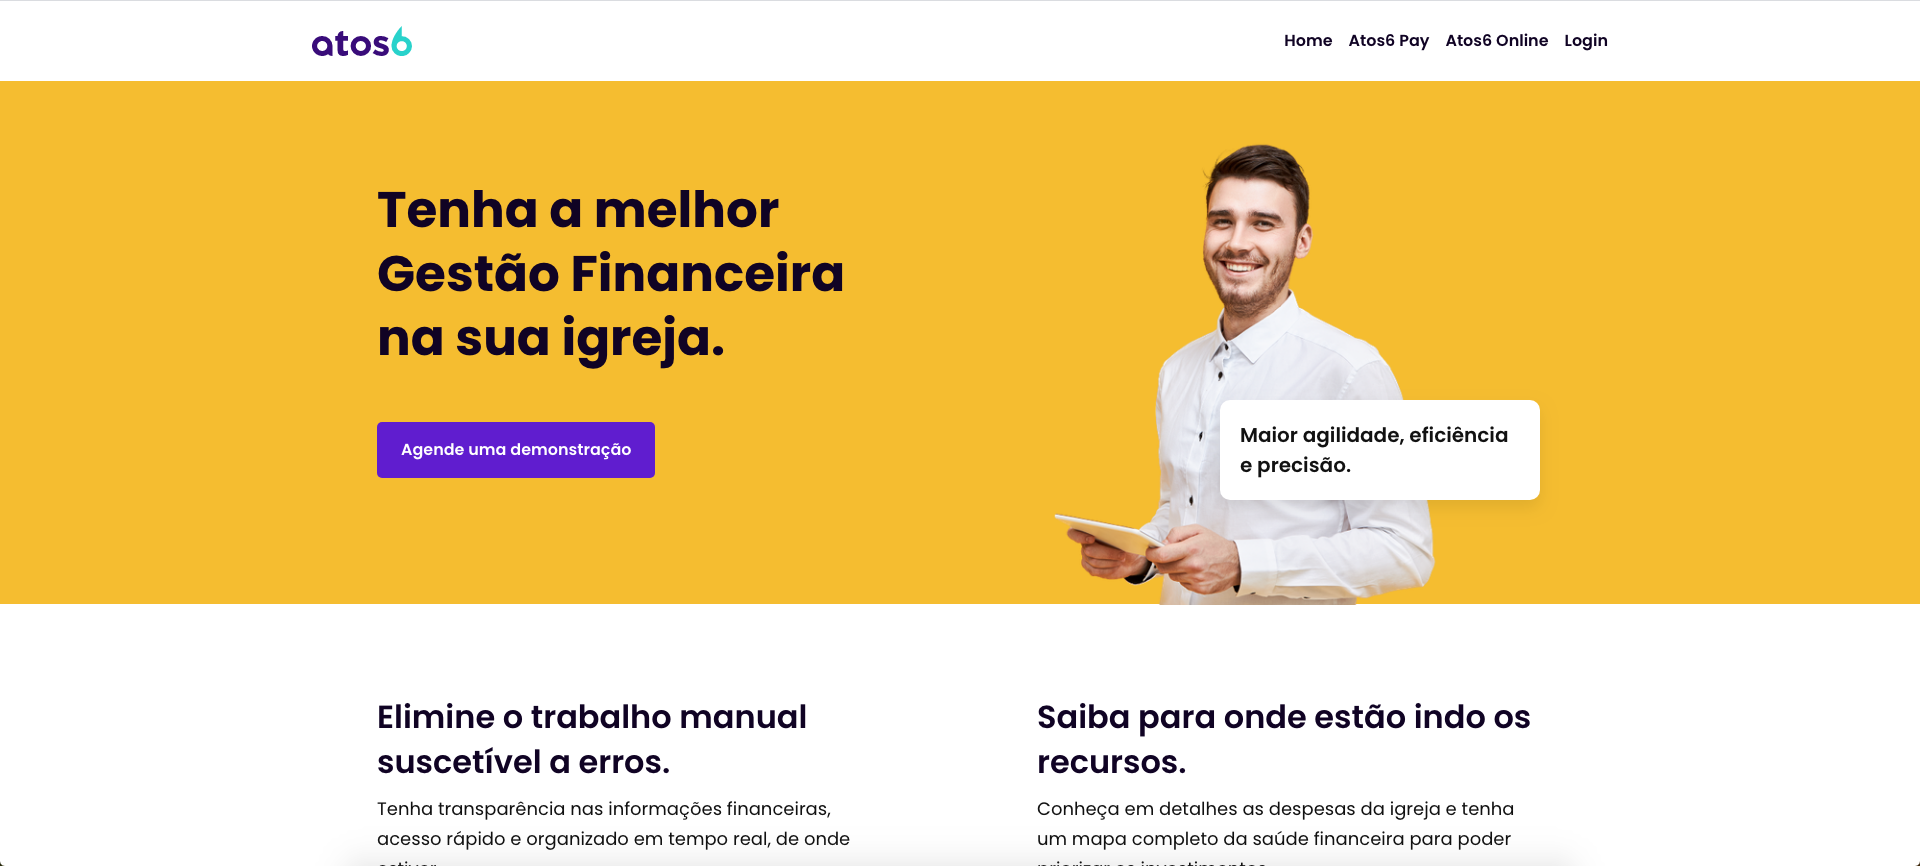
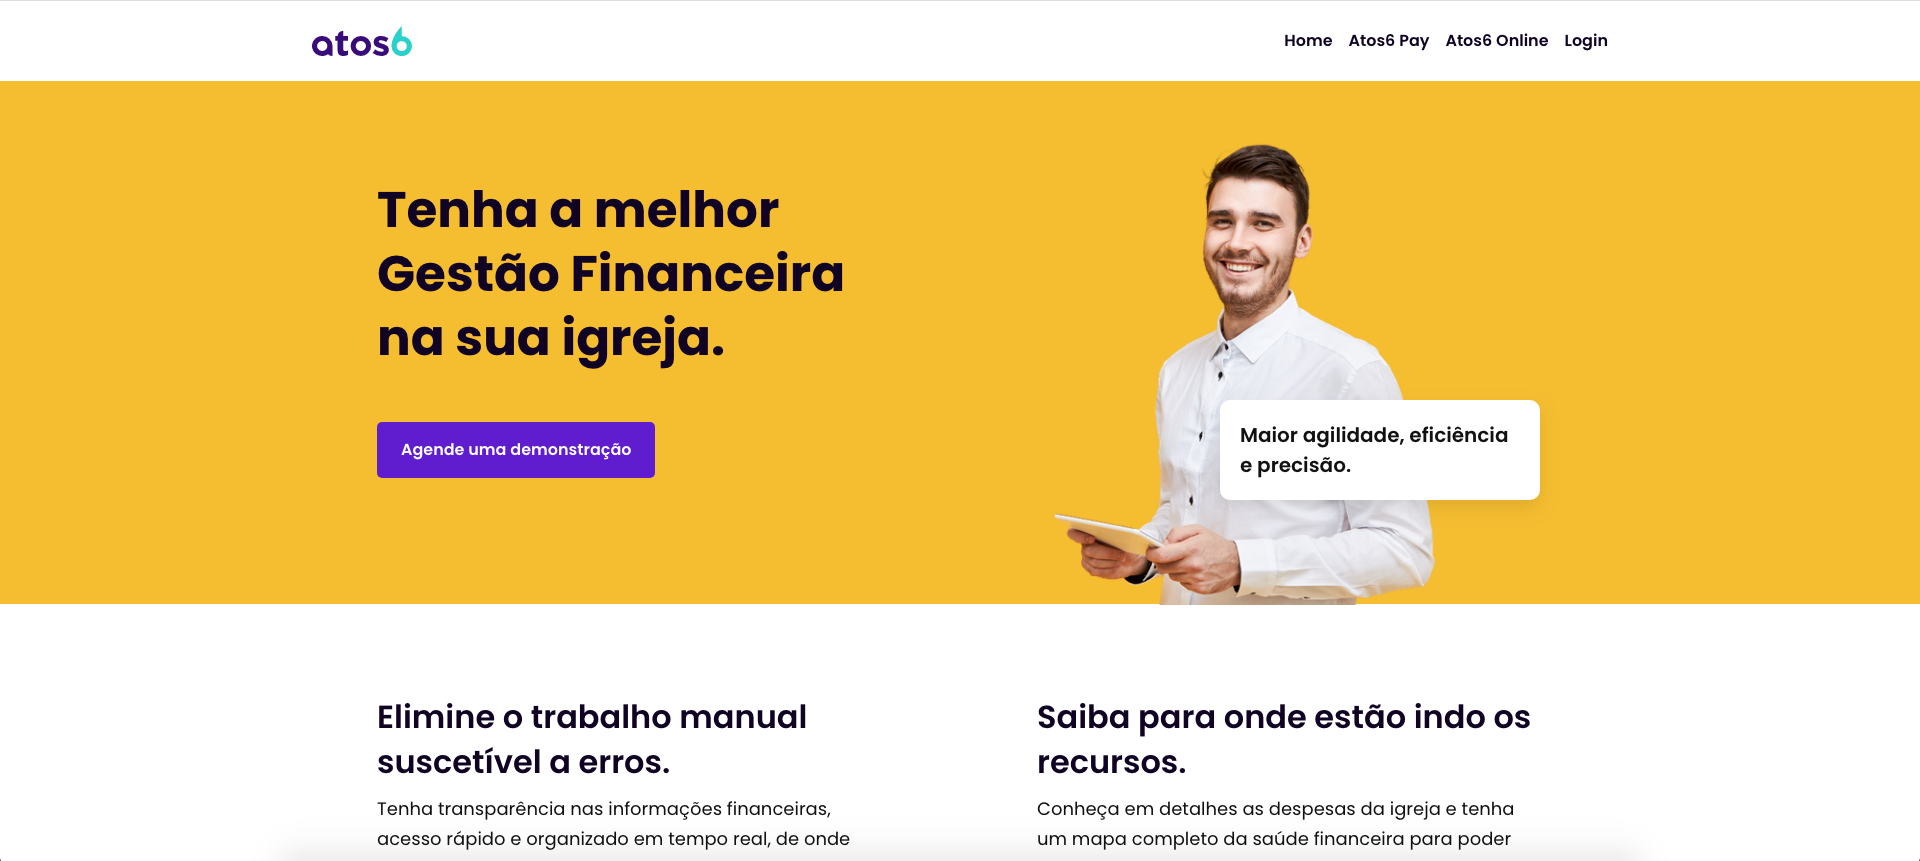
Muda meta tags no index e css styles

diff --git a/index.html b/index.html
@@ -1,10 +1,10 @@
 <!DOCTYPE html><!--  This site was created in Webflow. http://www.webflow.com  -->
-<!--  Last Published: Mon Jan 25 2021 15:37:13 GMT+0000 (Coordinated Universal Time)  -->
+<!--  Last Published: Fri Jan 29 2021 20:49:24 GMT+0000 (Coordinated Universal Time)  -->
 <html data-wf-page="5fe11a4032a4556a132ec424" data-wf-site="5ec94f3aa489f538995dc656">
 <head>
   <meta charset="utf-8">
   <title>Landing Atos6 Financeiro</title>
-  <meta content="Tenha a melhor Gestão Financeira na sua igreja com Atos6. Obtenha maior agilidade, eficiência e precisão em todo o trabalho financeiro da igreja." name="description.">
+  <meta content="Tenha a melhor Gestão Financeira na sua igreja com Atos6. Obtenha maior agilidade, eficiência e precisão em todo o trabalho financeiro da igreja." name="description">
   <meta content="Atos6 Gestão Financeira" property="og:title">
   <meta content="Tenha a melhor Gestão Financeira na sua igreja com Atos6. Obtenha maior agilidade, eficiência e precisão em todo o trabalho financeiro da igreja." property="og:description">
   <meta content="Atos6 Gestão Financeira" property="twitter:title">
@@ -41,11 +41,11 @@
   t.src=v;s=b.getElementsByTagName(e)[0];
   s.parentNode.insertBefore(t,s)}(window, document,'script',
   'https://connect.facebook.net/en_US/fbevents.js');
-  fbq('init', '488474002132598');
+  fbq('init', '259413092417633');
   fbq('track', 'PageView');
   </script>
   <noscript><img height="1" width="1" style="display:none"
-  src="https://www.facebook.com/tr?id=488474002132598&ev=PageView&noscript=1"
+  src="https://www.facebook.com/tr?id=259413092417633&ev=PageView&noscript=1"
   /></noscript>
   <!-- End Facebook Pixel Code -->
 </head>
@@ -74,7 +74,7 @@
         <div id="w-node-58ef2514c7ca-132ec424" class="container">
           <h1 class="display-heading-33-pay"><strong class="bold-text-2-hero">Tenha a melhor Gestão Financeira na sua igreja.</strong><br></h1>
           <div class="container-large align-center section-title-2">
-            <a href="https://materiais.atos6.com/gestao_comunicacao_igreja#rd-form-joq3m2m5" class="button-2-fin-hero w-inline-block">
+            <a href="#Form" class="button-2-fin-hero w-inline-block">
               <div class="text-block-48">Agende uma demonstração</div>
             </a>
           </div>
@@ -123,13 +123,13 @@
         </div>
       </div>
       <div class="container-large align-center section-title">
-        <a href="https://materiais.atos6.com/gestao_comunicacao_igreja#rd-form-joq3m2m5" class="button-2-fin w-inline-block">
+        <a href="#Form" class="button-2-fin w-inline-block">
           <div class="text-block-48">Agende uma demonstração</div>
         </a>
       </div>
     </div>
   </div>
-  <div class="section-comp bg-primary-2-fin">
+  <div class="section-comp bg-primary-3">
     <div class="main-container-2-comp">
       <div class="container-4 section-title">
         <h4 class="large-heading-5"><strong class="bold-text-3">Comparativo<br></strong></h4>
@@ -247,7 +247,7 @@
       </div>
     </div>
     <div class="button-with-link-container">
-      <a href="https://materiais.atos6.com/gestao_comunicacao_igreja#rd-form-joq3m2m5" class="button-3-fin-2 w-inline-block">
+      <a href="#Form" class="button-3-fin-2 w-inline-block">
         <div class="text-block-51">Agende uma demonstração</div>
       </a>
     </div>
@@ -342,7 +342,7 @@
         </div>
         <div class="logo-row"><img src="../images/sci-2.png" alt="" class="logo-row-item"><img src="../images/Dominio-1.png" alt="" class="logo-row-item"><img src="../images/Nasajon-1.png" alt="" class="logo-row-item"><img src="../images/Alterdata.png" alt="" class="logo-row-item"></div>
         <div class="justify-content-center">
-          <a href="https://materiais.atos6.com/gestao_comunicacao_igreja#rd-form-joq3m2m5" class="button-2-fin logo-row-item w-inline-block">
+          <a href="#Form" class="button-2-fin logo-row-item w-inline-block">
             <div>Agende uma demonstração</div>
           </a>
         </div>
@@ -398,20 +398,21 @@
       </div>
     </div>
   </div>
-  <div class="section-tax bg-primary-1-fin">
-    <div class="main-container-6 text-center">
+  <section id="Form" class="section-form bg-primary-2-fin">
+    <div class="main-container-2-form">
       <div class="container-large wide align-center">
-        <div class="justify-content-center">
-          <h4 class="display-heading-3-fin">Saiba como está a saúde financeira da sua igreja. Acompanhe todas as contribuições, despesas e seu fluxo de caixa.</h4>
-          <div class="button-with-link-container">
-            <a href="https://materiais.atos6.com/gestao_comunicacao_igreja#rd-form-joq3m2m5" class="link-with-arrow w-inline-block">
-              <div class="text-block-48-fin">Agende uma demonstração</div><img src="../images/icon-arrow-right-small.svg" alt="" class="link-arrow-copy-2">
-            </a>
-          </div>
+        <div class="section-title text-center">
+          <h3 class="display-heading-3">Solicite uma demonstração</h3>
+          <div class="text-large">Saiba como está a saúde financeira da sua igreja. Acompanhe todas as contribuições, despesas e seu fluxo de caixa.</div>
         </div>
       </div>
+      <div class="html-embed-2 w-embed w-script">
+        <div role="main" id="formulario-geracao-mql-4ea81c2fae874d86e8c6"></div>
+        <script type="text/javascript" src="https://d335luupugsy2.cloudfront.net/js/rdstation-forms/stable/rdstation-forms.min.js"></script>
+        <script type="text/javascript"> new RDStationForms('formulario-geracao-mql-4ea81c2fae874d86e8c6', 'UA-137718464-1').createForm();</script>
+      </div>
     </div>
-  </div>
+  </section>
   <div class="footer-2">
     <div class="main-container">
       <div class="footer-2-top-row">

diff --git a/css/atos6.webflow.css b/css/atos6.webflow.css
@@ -13114,6 +13114,12 @@ figcaption {
 
 .section-comp.bg-primary-2-fin {
   padding-top: 95px;
+  background-color: #e2e2e2;
+  color: #feb425;
+}
+
+.section-comp.bg-primary-3 {
+  padding-top: 95px;
   background-color: #39007c;
   color: #feb425;
 }
@@ -13373,6 +13379,153 @@ figcaption {
 .text-block-54 {
   font-family: Poppins, sans-serif;
   line-height: 26px;
+}
+
+.html-embed-2 {
+  margin-top: 0px;
+}
+
+.main-container-2-form {
+  display: -webkit-box;
+  display: -webkit-flex;
+  display: -ms-flexbox;
+  display: flex;
+  width: 100%;
+  max-width: 1296px;
+  margin-right: auto;
+  margin-left: auto;
+  padding: 0px 24px;
+  -webkit-box-orient: vertical;
+  -webkit-box-direction: normal;
+  -webkit-flex-direction: column;
+  -ms-flex-direction: column;
+  flex-direction: column;
+  -webkit-box-align: center;
+  -webkit-align-items: center;
+  -ms-flex-align: center;
+  align-items: center;
+  -webkit-align-self: auto;
+  -ms-flex-item-align: auto;
+  align-self: auto;
+  -webkit-box-flex: 0;
+  -webkit-flex: 0 auto;
+  -ms-flex: 0 auto;
+  flex: 0 auto;
+}
+
+.section-form {
+  padding-top: 95px;
+  padding-bottom: 95px;
+  background-color: #f5f5f5;
+}
+
+.section-form.bg-gray-3 {
+  background-color: rgba(0, 0, 0, 0.03);
+}
+
+.section-form.bg-gray-3.text-center {
+  padding-top: 80px;
+  padding-bottom: 125px;
+}
+
+.section-form.bg-gray-4 {
+  display: -webkit-box;
+  display: -webkit-flex;
+  display: -ms-flexbox;
+  display: flex;
+  padding-top: 96px;
+  padding-bottom: 30px;
+  background-color: #fff;
+}
+
+.section-form.reduced-padding {
+  padding-top: 72px;
+  padding-bottom: 72px;
+}
+
+.section-form.image-background-section {
+  position: relative;
+  display: -webkit-box;
+  display: -webkit-flex;
+  display: -ms-flexbox;
+  display: flex;
+  min-height: 696px;
+  -webkit-box-orient: vertical;
+  -webkit-box-direction: normal;
+  -webkit-flex-direction: column;
+  -ms-flex-direction: column;
+  flex-direction: column;
+  -webkit-box-pack: center;
+  -webkit-justify-content: center;
+  -ms-flex-pack: center;
+  justify-content: center;
+  -webkit-box-align: center;
+  -webkit-align-items: center;
+  -ms-flex-align: center;
+  align-items: center;
+  background-color: #000;
+  color: #fff;
+}
+
+.section-form.help-center-section {
+  padding-top: 48px;
+}
+
+.section-form.featured-blog-section {
+  padding-top: 48px;
+  padding-bottom: 72px;
+}
+
+.section-form.no-bottom-space {
+  padding-bottom: 0px;
+}
+
+.section-form.no-top-padding {
+  padding-top: 0px;
+}
+
+.section-form.bg-primary-1 {
+  padding-top: 20px;
+  background-color: #0ed2cc;
+  color: #111;
+}
+
+.section-form.no-bottom-padding {
+  padding-bottom: 0px;
+}
+
+.section-form.increased-padding {
+  padding-top: 144px;
+  padding-bottom: 144px;
+}
+
+.section-form.bg-primary-5 {
+  background-color: #0ed2cc;
+  color: #111;
+}
+
+.section-form.bg-primary-1-pay {
+  padding-top: 95px;
+  background-color: #0f7cfd;
+  color: #111;
+}
+
+.section-form.bg-primary-1-fin {
+  padding-top: 95px;
+  background-color: #feb425;
+  color: #feb425;
+}
+
+.section-form.bg-primary-2-fin {
+  padding-top: 40px;
+  background-color: #39007c;
+  color: #feb425;
+}
+
+.section-form.bg-primary-2-fin {
+  padding-top: 95px;
+  background-color: #e2e2e2;
+  color: #feb425;
 }
 
 @media screen and (min-width: 1920px) {
@@ -15346,6 +15499,15 @@ figcaption {
     -ms-grid-columns: 1fr 1fr;
     grid-template-columns: 1fr 1fr;
   }
+
+  .section-form.increased-padding {
+    padding-top: 96px;
+    padding-bottom: 96px;
+  }
+
+  .section-form.bg-primary-2-fin {
+    padding-top: 40px;
+  }
 }
 
 @media screen and (max-width: 767px) {
@@ -16895,6 +17057,20 @@ figcaption {
     top: 0px;
     margin-right: 0px;
     margin-bottom: 24px;
+  }
+
+  .section-form {
+    padding-top: 72px;
+    padding-bottom: 72px;
+  }
+
+  .section-form.image-background-section {
+    min-height: auto;
+  }
+
+  .section-form.increased-padding {
+    padding-top: 72px;
+    padding-bottom: 72px;
   }
 }
 
@@ -20236,6 +20412,10 @@ figcaption {
     padding-bottom: 50px;
   }
 
+  .section-comp.bg-primary-3 {
+    padding-bottom: 50px;
+  }
+
   .main-container-2-pay-2-copy {
     padding: 0px 18px;
   }
@@ -20352,6 +20532,41 @@ figcaption {
   .quotes-grid-3 {
     -ms-grid-columns: 1fr;
     grid-template-columns: 1fr;
+  }
+
+  .main-container-2-form {
+    padding: 0px 18px;
+  }
+
+  .section-form {
+    padding-bottom: 20px;
+    text-align: center;
+  }
+
+  .section-form.bg-gray-4 {
+    padding-top: 20px;
+    -webkit-box-orient: vertical;
+    -webkit-box-direction: normal;
+    -webkit-flex-direction: column;
+    -ms-flex-direction: column;
+    flex-direction: column;
+  }
+
+  .section-form.bg-primary-1-pay {
+    padding-bottom: 50px;
+  }
+
+  .section-form.bg-primary-1-fin {
+    padding-bottom: 50px;
+  }
+
+  .section-form.bg-primary-2-fin {
+    padding-top: 50px;
+    padding-bottom: 50px;
+  }
+
+  .section-form.bg-primary-2-fin {
+    padding-bottom: 50px;
   }
 }
 
